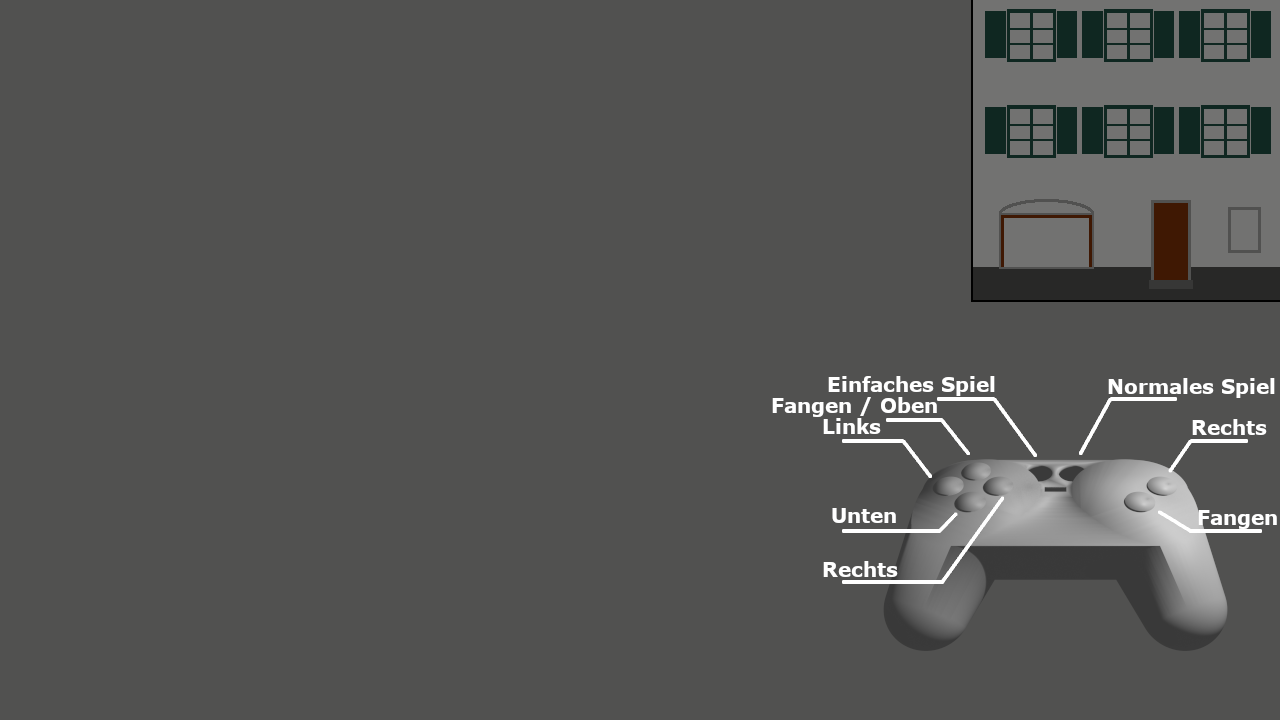
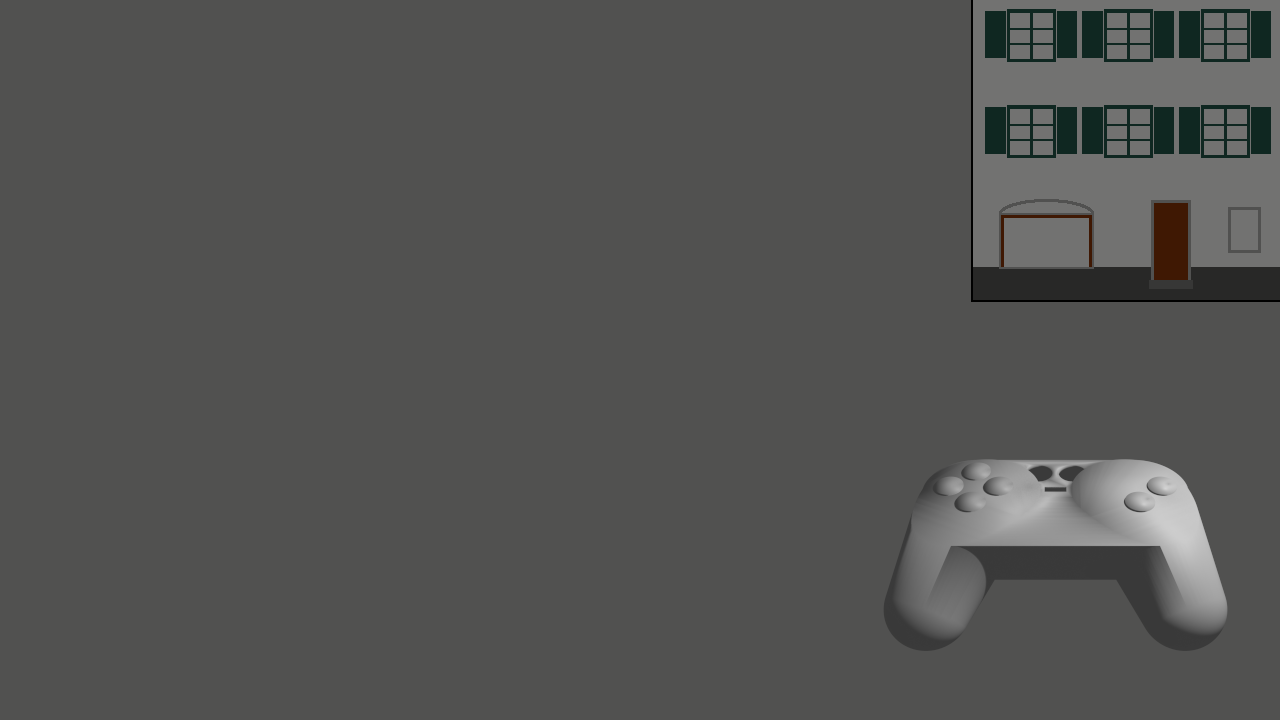
Try to make Gamepad with Buttons with labels to render also in menus
labels missing
render still a bit buggy

diff --git a/gamelib/gamepad_buttons.py b/gamelib/gamepad_buttons.py
@@ -1,0 +1,144 @@
+from config.gameconfig import ScreenMode
+from gamelib.data_helper_functions import load_image
+from gamelib.gamestate import GameState
+from gamelib.uielements import ButtonIcon, ImageIcon
+
+
+class Gamepad_Buttons():
+
+    def __init__(self, state: GameState):
+        self.gamestate = state
+        self.frame = 0
+        self.previous_screen_mode = None
+
+        game_sprites = self.gamestate.GAME_SPRITES
+        game_ui_sprites = self.gamestate.GAME_UI_SPRITES
+
+        # todo: make gamepad sprite non transparent? or why are (old?) sprites behind gamepad visible?
+        self.gamepad_sprite = ImageIcon(873,454, [load_image('gamepad.png', 'ui')], game_ui_sprites)
+
+        # gamepad buttons from back to front
+        # noinspection PyTypeChecker
+        self.button_up = ButtonIcon(960, 449,
+                                    [load_image(im, "buttons32") for im in
+                                     ("button_blue_up.png", "button_blue_up_pressed.png")],
+                                    (game_ui_sprites, game_sprites)
+                                    )
+
+        # noinspection PyTypeChecker
+        self.button_select = ButtonIcon(1020, 449,
+                                        [load_image(im, "buttons32") for im in
+                                         ("button_white.png", "button_white_pressed.png")],
+                                        (game_ui_sprites, game_sprites)
+                                        )
+
+        # noinspection PyTypeChecker
+        self.button_start = ButtonIcon(1055, 449,
+                                       [load_image(im, "buttons32") for im in
+                                        ("button_black.png", "button_black_pressed.png")],
+                                       (game_ui_sprites, game_sprites)
+                                       )
+        self.button_start.frame = 24
+
+        # noinspection PyTypeChecker
+        self.button_left = ButtonIcon(934, 464,
+                                      [load_image(im, "buttons32") for im in
+                                       ("button_blue_left.png", "button_blue_left_pressed.png")],
+                                      (game_ui_sprites, game_sprites)
+                                      )
+        self.button_left.frame = 6
+
+        # noinspection PyTypeChecker
+        self.button_right = ButtonIcon(983, 464,
+                                       [load_image(im, "buttons32") for im in
+                                        ("button_blue_right.png", "button_blue_right_pressed.png")],
+                                       (game_ui_sprites, game_sprites)
+                                       )
+        self.button_right.frame = 12
+
+        # noinspection PyTypeChecker
+        self.button_red = ButtonIcon(1146, 464,
+                                     [load_image(im, "buttons32") for im in
+                                      ("button_red.png", "button_red_pressed.png")],
+                                     (game_ui_sprites, game_sprites)
+                                     )
+
+        # noinspection PyTypeChecker
+        self.button_down = ButtonIcon(954, 481,
+                                      [load_image(im, "buttons32") for im in
+                                       ("button_blue_down.png", "button_blue_down_pressed.png")],
+                                      (game_ui_sprites, game_sprites)
+                                      )
+        self.button_down.frame = 24
+
+        # noinspection PyTypeChecker
+        self.button_yellow = ButtonIcon(1120, 481,
+                                        [load_image(im, "buttons32") for im in
+                                         ("button_yellow.png", "button_yellow_pressed.png")],
+                                        (game_ui_sprites, game_sprites)
+                                        )
+        self.button_yellow.frame = 6
+
+
+    def update_rects(self):
+        if self.gamestate.screenMode == ScreenMode.GAME_BIG:
+            self.button_left.rect.left = 810
+            self.button_left.rect.top = 330
+
+            self.button_right.rect.left = 860
+            self.button_right.rect.top = 330
+
+            self.button_yellow.rect.left = 780
+            self.button_yellow.rect.top = 370
+
+            self.button_select.rect.left = 750
+            self.button_select.rect.top = 620
+
+            self.button_start.rect.left = 750
+            self.button_start.rect.top = 670
+
+            # unused in this screen mode
+            self.button_up.rect.left = -100
+            self.button_down.rect.left = -100
+            self.button_red.rect.left = -100
+        elif self.gamestate.screenMode == ScreenMode.SCORE_GAME_BUTTONS:
+            self.button_up.rect.left = 960
+            self.button_up.rect.top = 449
+
+            self.button_left.rect.left = 934
+            self.button_left.rect.top = 464
+
+            self.button_right.rect.left = 983
+            self.button_right.rect.top = 464
+
+            self.button_down.rect.left = 954
+            self.button_down.rect.top = 481
+
+            self.button_start.rect.left = 1055
+            self.button_start.rect.top = 449
+
+            self.button_select.rect.left = 1020
+            self.button_select.rect.top = 449
+
+            self.button_red.rect.left = 1146
+            self.button_red.rect.top = 464
+
+            self.button_yellow.rect.left = 1120
+            self.button_yellow.rect.top = 481
+
+    def update(self):
+        # todo: where to call this from?
+        self.frame += 1
+        if self.gamestate.screenMode != self.previous_screen_mode:
+            self.update_rects()
+
+        # todo: add/render labels
+
+        # self.button_up.update()
+        # self.button_down.update()
+        # self.button_right.update()
+        # self.button_left.update()
+        # self.button_start.update()
+        # self.button_select.update()
+        # self.button_red.update()
+        # self.button_yellow.update()

diff --git a/star_catcher_goat.py b/star_catcher_goat.py
@@ -17,6 +17,7 @@ from config.gamevisualizationconfig import GameVisualizationConfig
 from config.buttonconfig import *
 # todo: load_font is "unused" but used below??
 from gamelib.data_helper_functions import load_image, load_font
+from gamelib.gamepad_buttons import Gamepad_Buttons
 
 from gamelib.gamestate import GameState
 from gamelib.ledhandler import LedHandler
@@ -381,7 +382,6 @@ def main():
 
     # Initialize Game Groups
     game_ui_sprites = GAME_STATE.GAME_UI_SPRITES
-    end_ui_sprites = GAME_STATE.END_UI_SPRITES
 
     game_sprites =  GAME_STATE.GAME_SPRITES
 
@@ -390,39 +390,7 @@ def main():
     # todo: nicer:
     GAME_STATE.PLAYER.triggerControllerSoundCallback = trigger_controller_sound
 
-    if GAME_STATE.screenMode == ScreenMode.GAME_BIG:
-        # right/left buttons
-        # noinspection PyTypeChecker
-        ButtonIcon(810, 330, [load_image(im, "buttons32") for im in ("button_blue_left.png", "button_blue_left_pressed.png")], (game_ui_sprites, game_sprites)).frame = 24 # offset button animations a bit
-        # noinspection PyTypeChecker
-        ButtonIcon(860, 330, [load_image(im, "buttons32") for im in ("button_blue_right.png", "button_blue_right_pressed.png")], (game_ui_sprites, game_sprites))
-        # noinspection PyTypeChecker
-        ButtonIcon(780, 370, [load_image(im, "buttons32") for im in ("button_yellow.png", "button_yellow_pressed.png")], (game_ui_sprites, game_sprites)).frame = 12
-
-        # noinspection PyTypeChecker
-        ButtonIcon(750, 620, [load_image(im, "buttons32") for im in ("button_black_right.png", "button_black_right_pressed.png")], (end_ui_sprites, game_sprites)).frame = 24
-        # noinspection PyTypeChecker
-        ButtonIcon(750, 670, [load_image(im, "buttons32") for im in ("button_black_left.png", "button_black_left_pressed.png")], (end_ui_sprites, game_sprites))
-    elif GAME_STATE.screenMode == ScreenMode.SCORE_GAME_BUTTONS:
-        # gamepad buttons from back to front
-        # noinspection PyTypeChecker
-        ButtonIcon(960, 449, [load_image(im, "buttons32") for im in ("button_blue_up.png", "button_blue_up_pressed.png")], (game_ui_sprites, game_sprites))
-        # noinspection PyTypeChecker
-        ButtonIcon(1020, 449, [load_image(im, "buttons32") for im in ("button_white.png", "button_white_pressed.png")], (end_ui_sprites, game_sprites))
-        # noinspection PyTypeChecker
-        ButtonIcon(1055, 449, [load_image(im, "buttons32") for im in ("button_black.png", "button_black_pressed.png")], (end_ui_sprites, game_sprites)).frame = 24
-
-        # noinspection PyTypeChecker
-        ButtonIcon(934, 464, [load_image(im, "buttons32") for im in ("button_blue_left.png", "button_blue_left_pressed.png")],(game_ui_sprites, game_sprites)).frame = 6
-        # noinspection PyTypeChecker
-        ButtonIcon(983, 464, [load_image(im, "buttons32") for im in ("button_blue_right.png", "button_blue_right_pressed.png")],(game_ui_sprites, game_sprites)).frame = 12
-        # noinspection PyTypeChecker
-        ButtonIcon(1146, 464, [load_image(im, "buttons32") for im in ("button_red.png", "button_red_pressed.png")],(game_ui_sprites, game_sprites))
-
-        # noinspection PyTypeChecker
-        ButtonIcon(954, 481, [load_image(im, "buttons32") for im in ("button_blue_down.png", "button_blue_down_pressed.png")],(game_ui_sprites, game_sprites)).frame = 24
-        # noinspection PyTypeChecker
-        ButtonIcon(1120, 481, [load_image(im, "buttons32") for im in ("button_yellow.png", "button_yellow_pressed.png")],(game_ui_sprites, game_sprites)).frame = 6
+    GAME_STATE.GAMEPAD_BUTTONS = Gamepad_Buttons(GAME_STATE)
 
     leds = LedHandler(GAME_CONFIG)
     GAME_STATE.LED_HANDLER = leds
@@ -661,13 +629,6 @@ def play_loop(serial_keys):
         score_stats.text = f"Gefangen: {player.starsCatchedHorn+player.starsCatchedButt: >2} (Mit Hörner: {player.starsCatchedHorn: >2})"
 
     score_missed.text = f"Verpasst: {GAME_STATE.StarsMissed: >2}"
-
-
-    if (GAME_STATE.FRAME_COUNT == 1) or (GAME_STATE.FRAME_COUNT == GAME_CONFIG.END_FRAME_COUNT):
-        for sprite in GAME_STATE.GAME_UI_SPRITES:
-            sprite.paused = GAME_STATE.FRAME_COUNT != 1
-        for sprite in GAME_STATE.END_UI_SPRITES:
-            sprite.paused = GAME_STATE.FRAME_COUNT != GAME_CONFIG.END_FRAME_COUNT
 
     if (GAME_STATE.FRAME_COUNT == GAME_CONFIG.END_FRAME_COUNT) and (not GAME_STATE.REPLAY):
         def update_and_save_recording():

diff --git a/gamelib/menus/menuscreen.py b/gamelib/menus/menuscreen.py
@@ -75,10 +75,16 @@ class MenuScreen:
         self.sprites.clear(self.screen, self.background)
 
         self.sprites.update()
+        # todo add "additional_render_groups" to update draw instead of fix game_ui_sprites
+        self.gamestate.GAME_UI_SPRITES.update()
 
         # draw the scene
         if self.frame == 0:
             pg.display.flip()
-        
+
         dirty = self.sprites.draw(self.screen)
+        pg.display.update(dirty)
+
+        # todo add "additional_render_groups" to update draw instead of fix game_ui_sprites
+        dirty = self.gamestate.GAME_UI_SPRITES.draw(self.screen)
         pg.display.update(dirty)

diff --git a/gamelib/gamestate.py b/gamelib/gamestate.py
@@ -33,8 +33,7 @@ class GameState:
     PLAYER = None
     STARS = pg.sprite.Group()
 
-    GAME_UI_SPRITES = pg.sprite.Group()    
-    END_UI_SPRITES = pg.sprite.Group()
+    GAME_UI_SPRITES = pg.sprite.RenderUpdates()
 
     GAME_SPRITES = pg.sprite.RenderUpdates()
 
@@ -44,6 +43,8 @@ class GameState:
     SCORE_POINTS = None
     SCORE_STATS = None
     SCORE_MISSED = None
+
+    GAMEPAD_BUTTONS = None
 
     def reset(self, new_columns):
         # Shutdown LEDS
